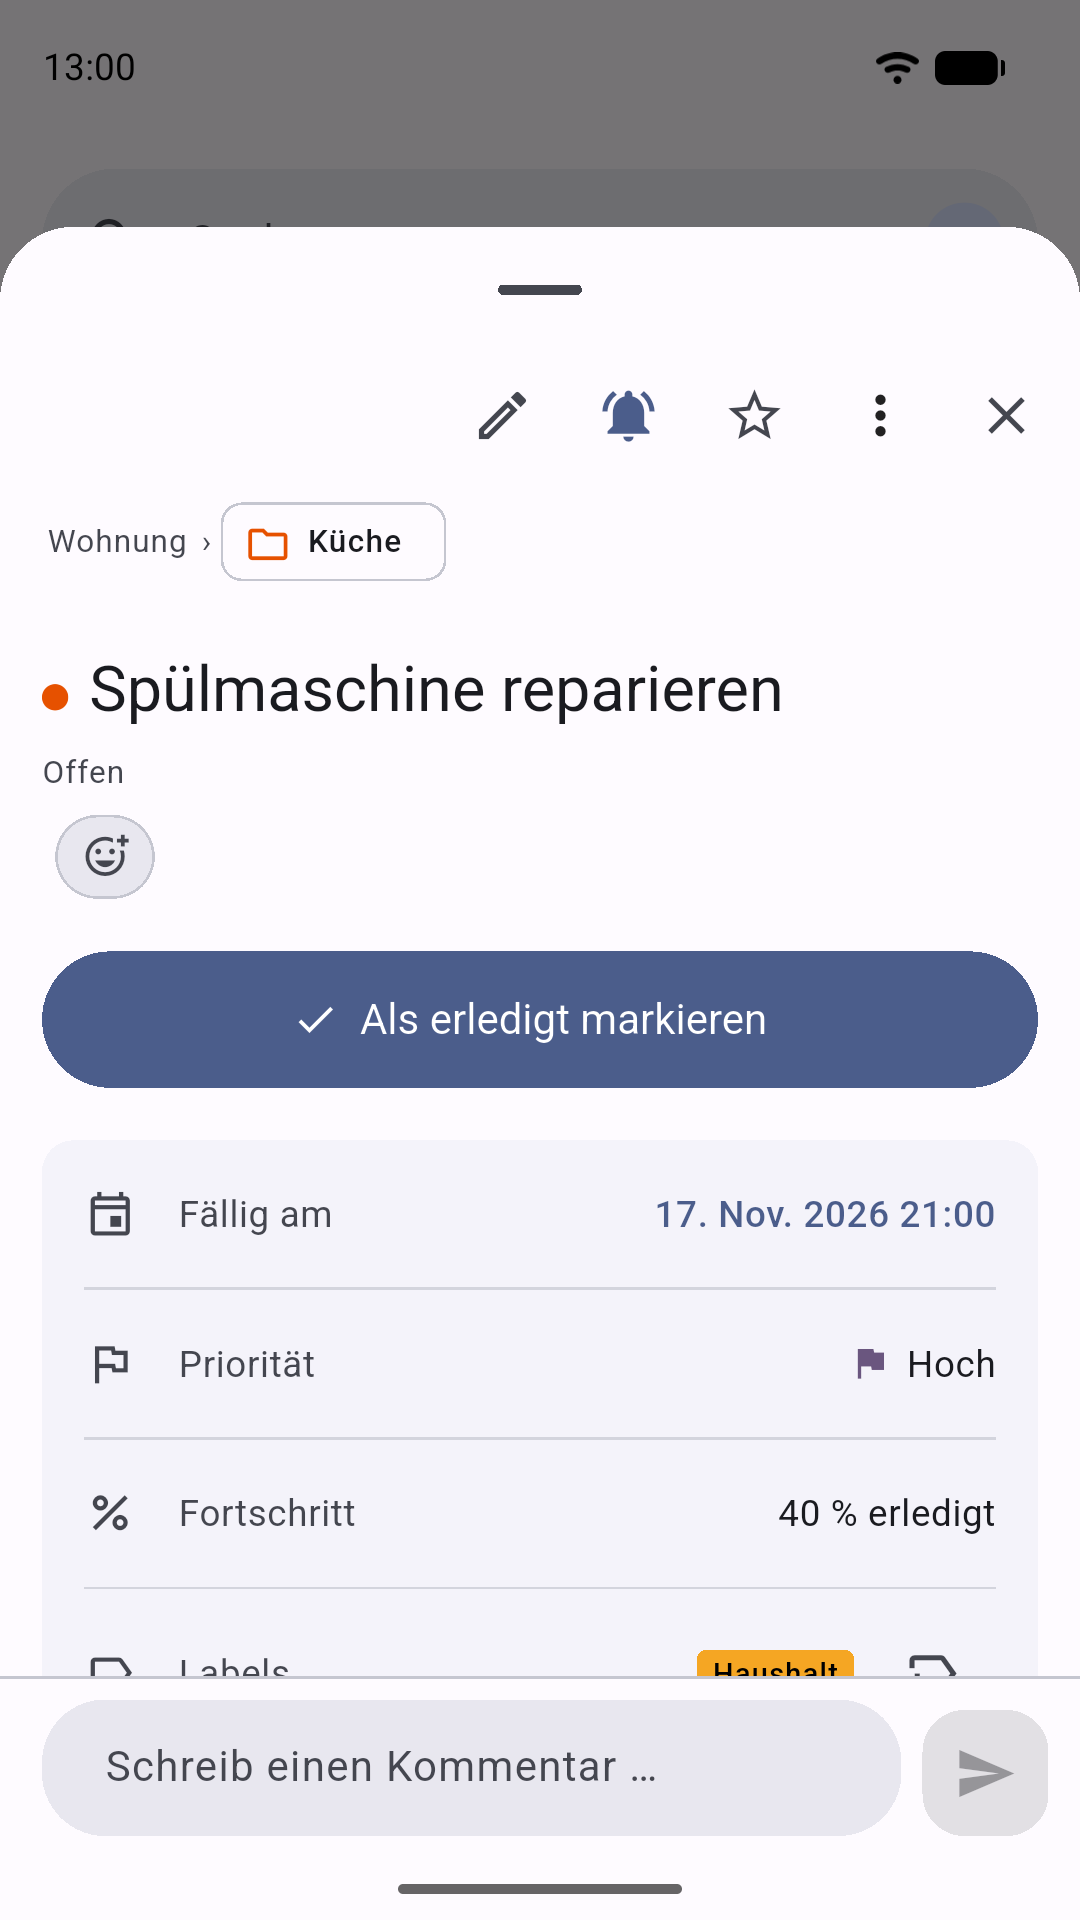
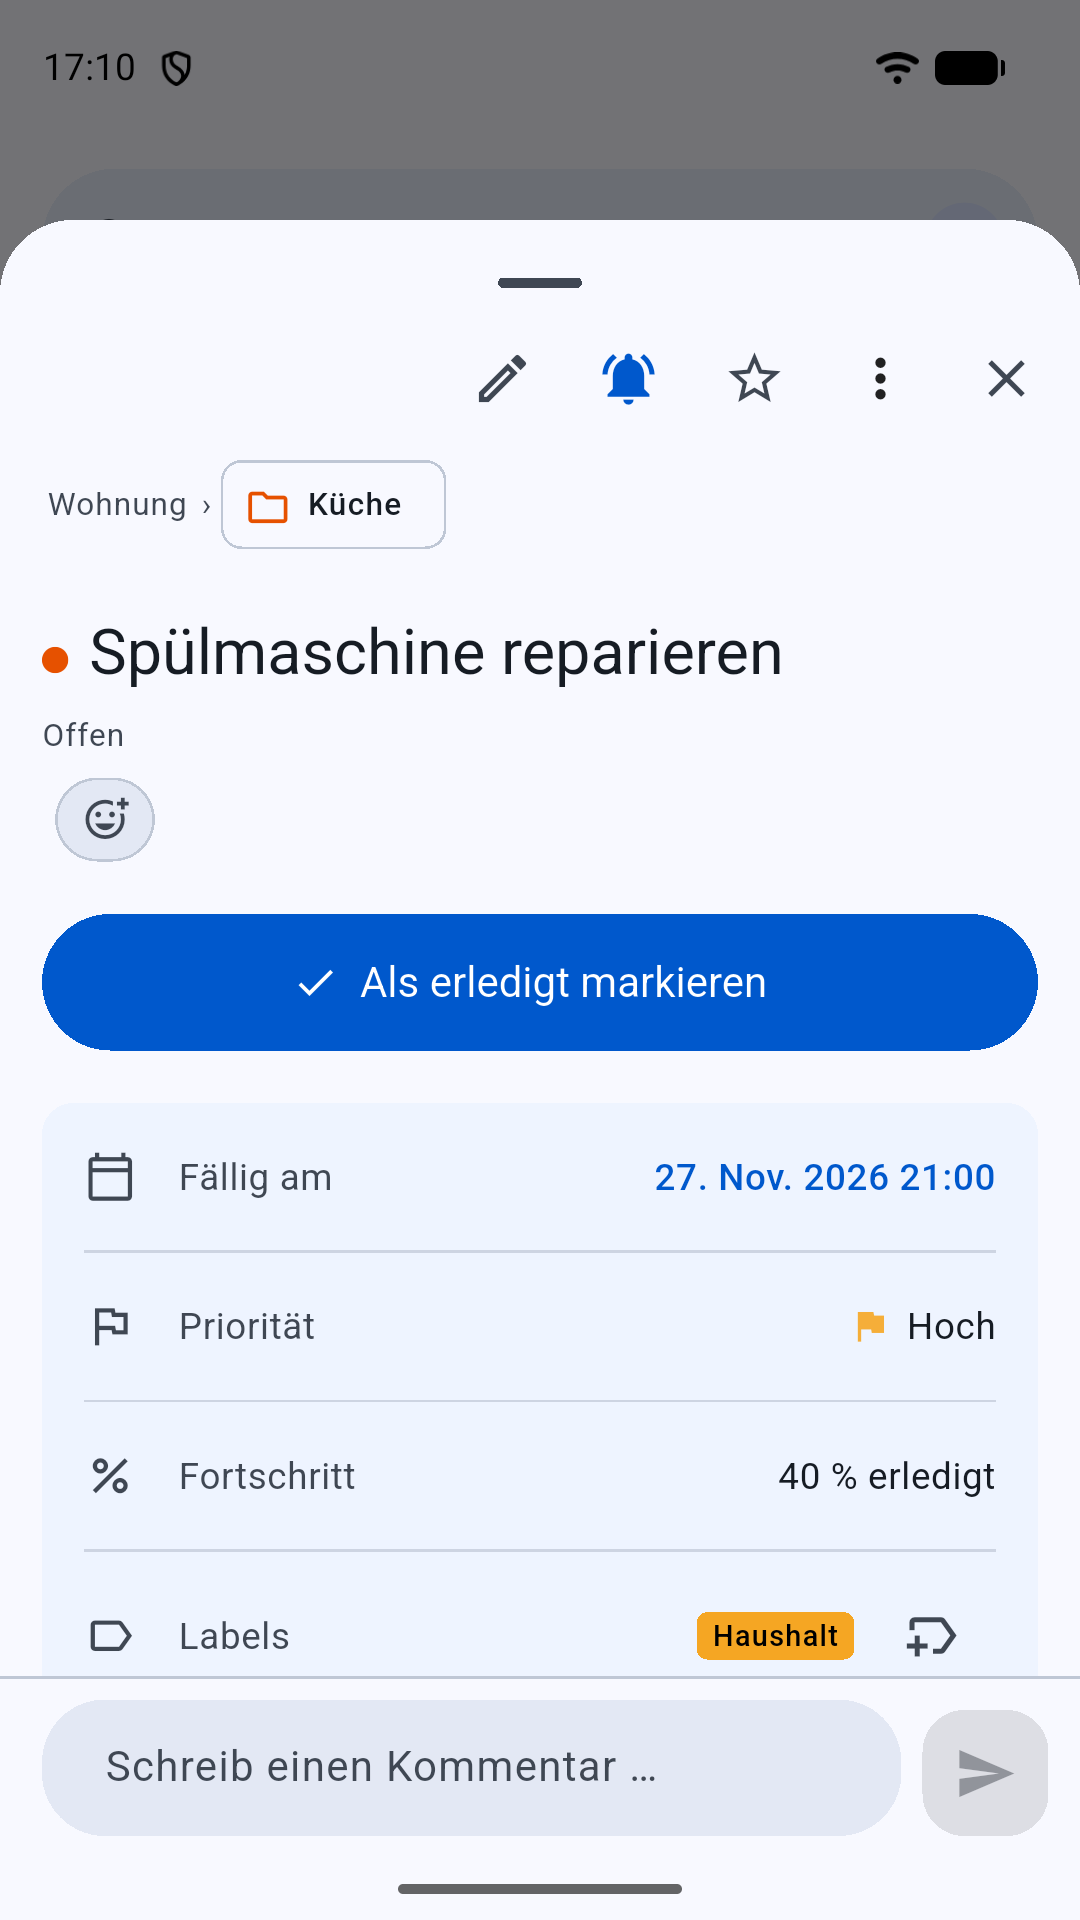
docs: the Play screenshots retaken with the current build
All 20, phone and tablet in English and German, with the demo data seeded
just before each language.

diff --git a/docs/store-listing.md b/docs/store-listing.md
@@ -98,6 +98,8 @@ The About page's links are in `app/lib/app/legal.dart` (`WebsitePage`, one `addr
 
 *Step 38f: all 20 Play screenshots, phone and tablet in en-US and de-DE, were retaken on 2026-11-17 with the build of that day, because the German ones still showed „Konto“, the tablet ones lacked the project tree and the task views predated steps 37h and 37k. The session used two emulators made for it (`Vikunja_Screens`, `Vikunja_Tablet`), as every session uses emulators made for it, never a developer's own, the test server with the seeded users, and the maintainer's sign-in once per device; agents never type credentials. The App Store's sets wait for the 1.0.0 submission.*
 
+*All 20 were retaken again on 2026-11-27, with the build of `main` of that day, the demo data seeded just before in each language and the same two emulators; the app had changed since 2026-11-17 (the project tree, the sync and the sharing, among others). Before each submission they are taken once more, as the session below says.*
+
 *Step 40a ([Releases](decisions.md#releases)): the English demo data's inbox task is "Change the tires" since then; the en-US phone screenshot 06 and the tablet's 03, which showed "Change the tyres", were retaken with it on 2026-11-17.*
 
 **Motifs** (`tool/store_screenshots.sh --list`), each in English and German:
